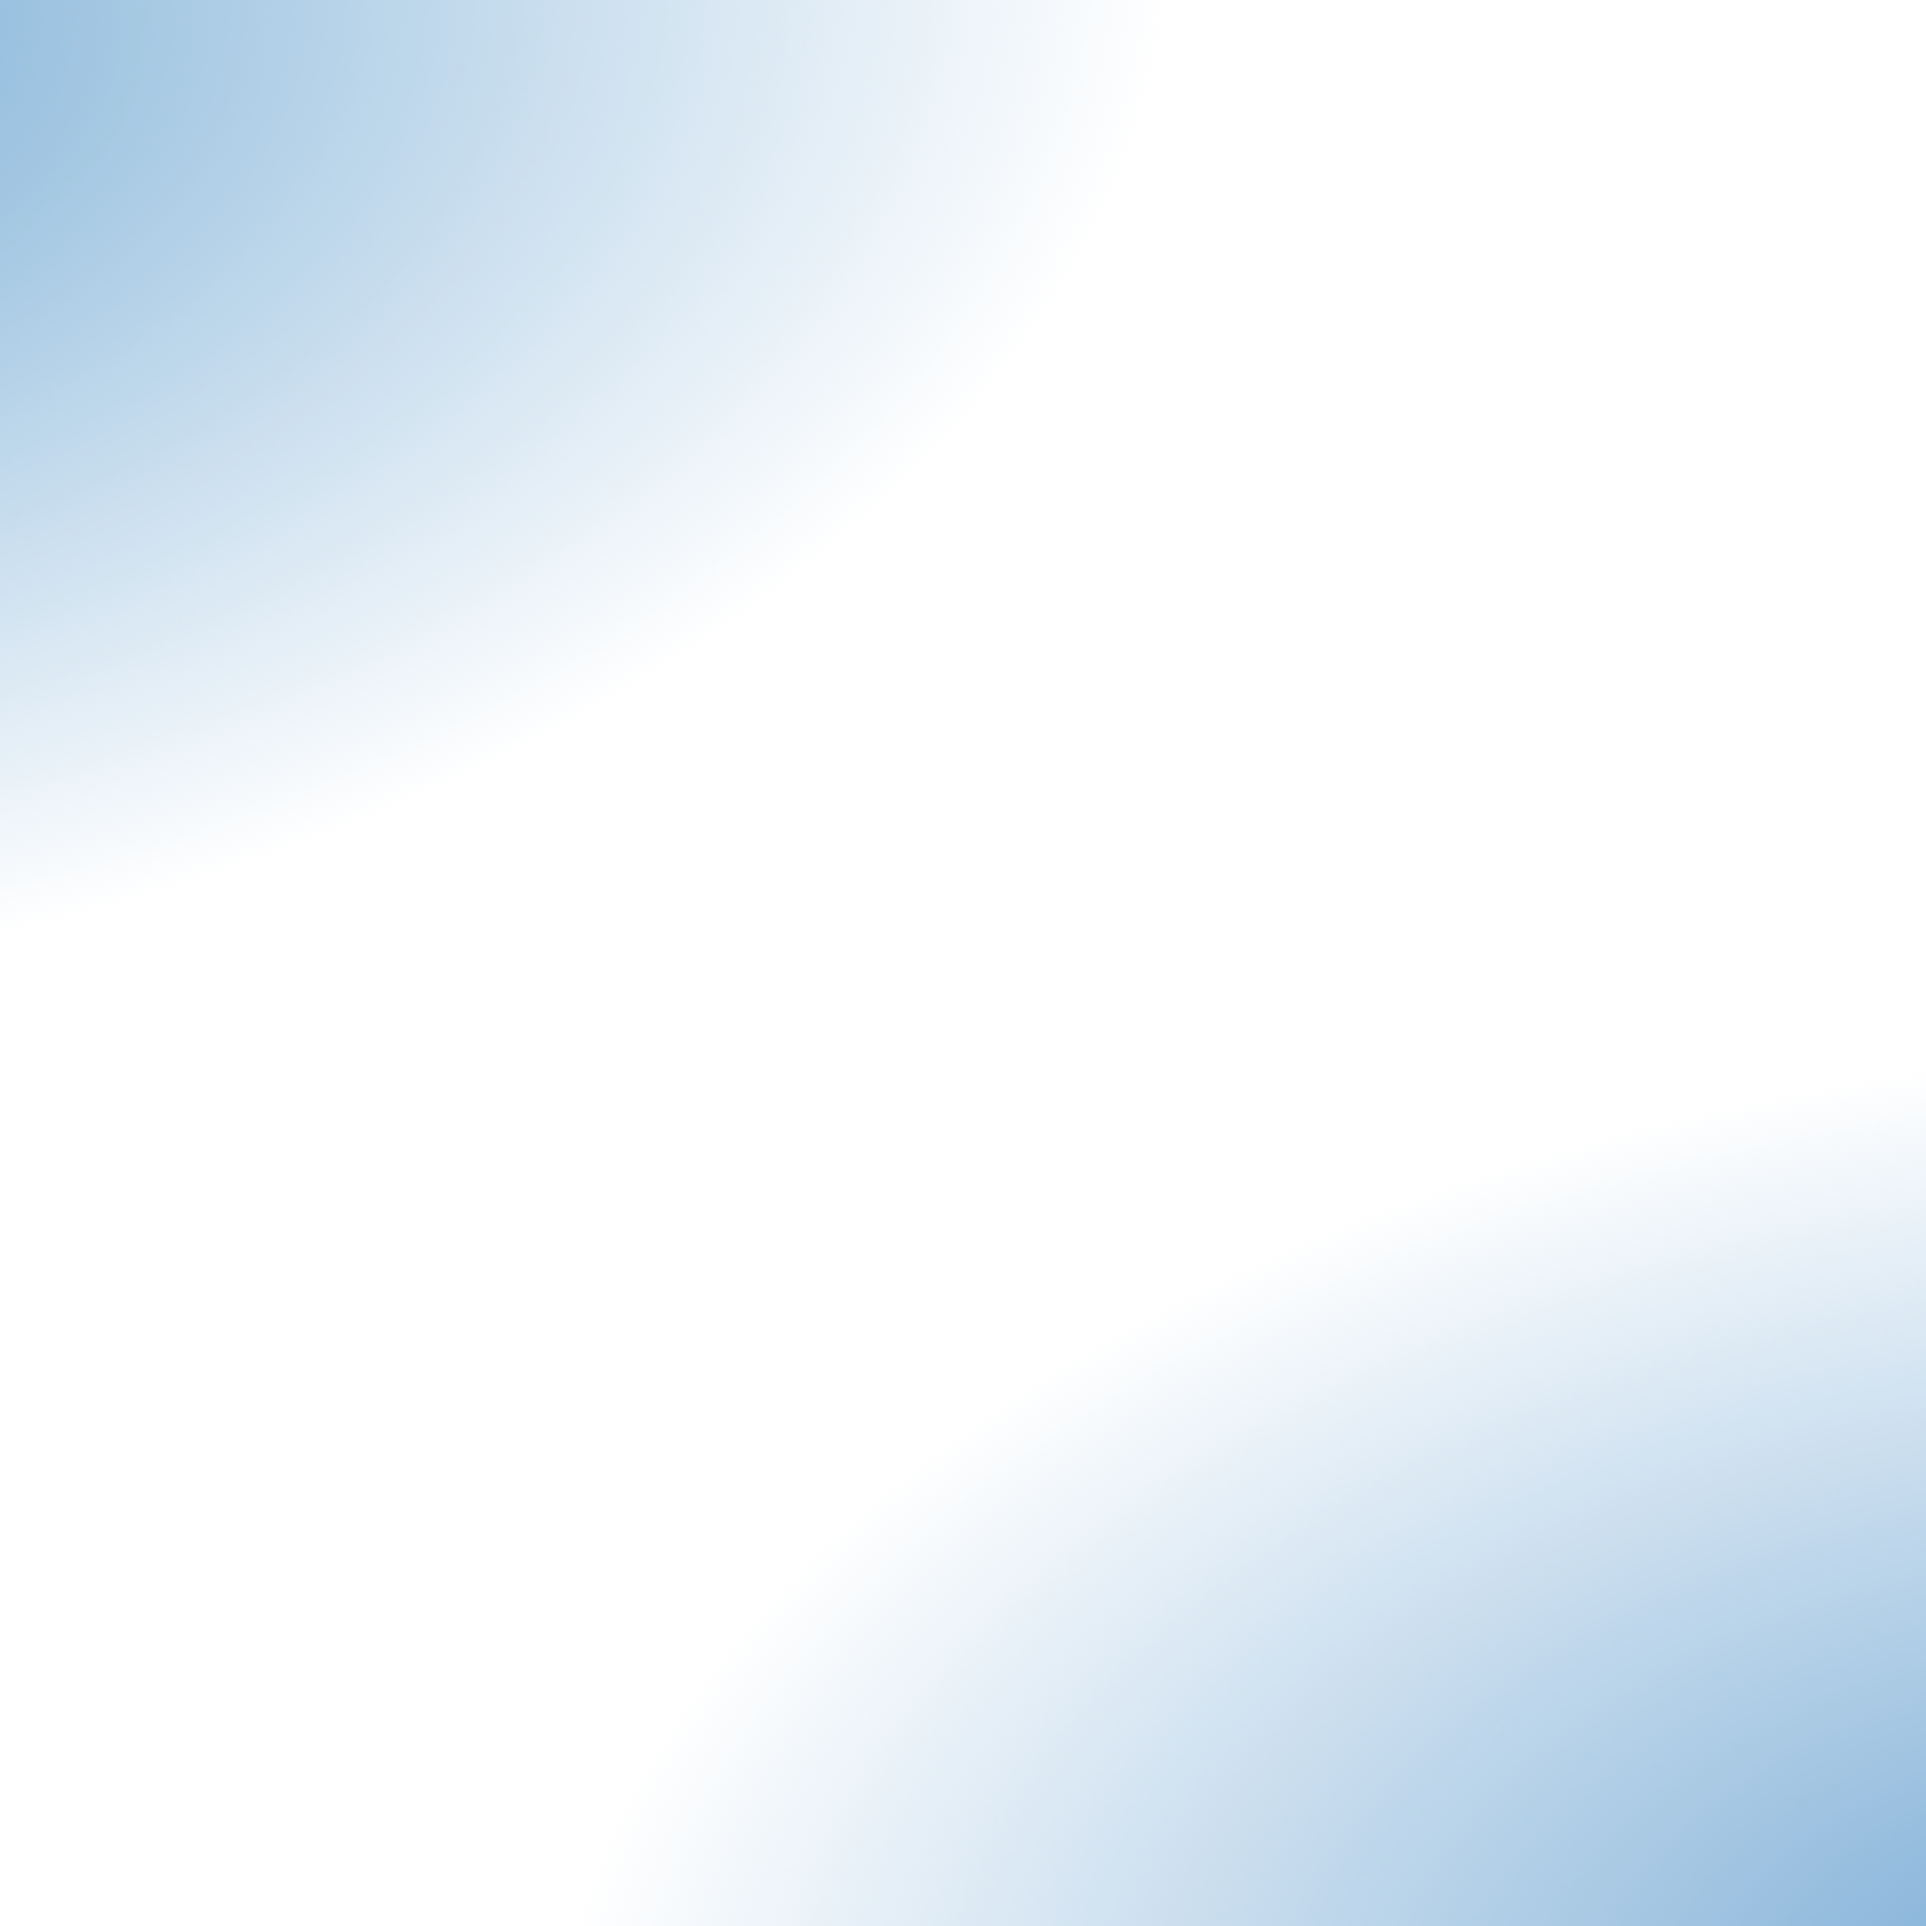
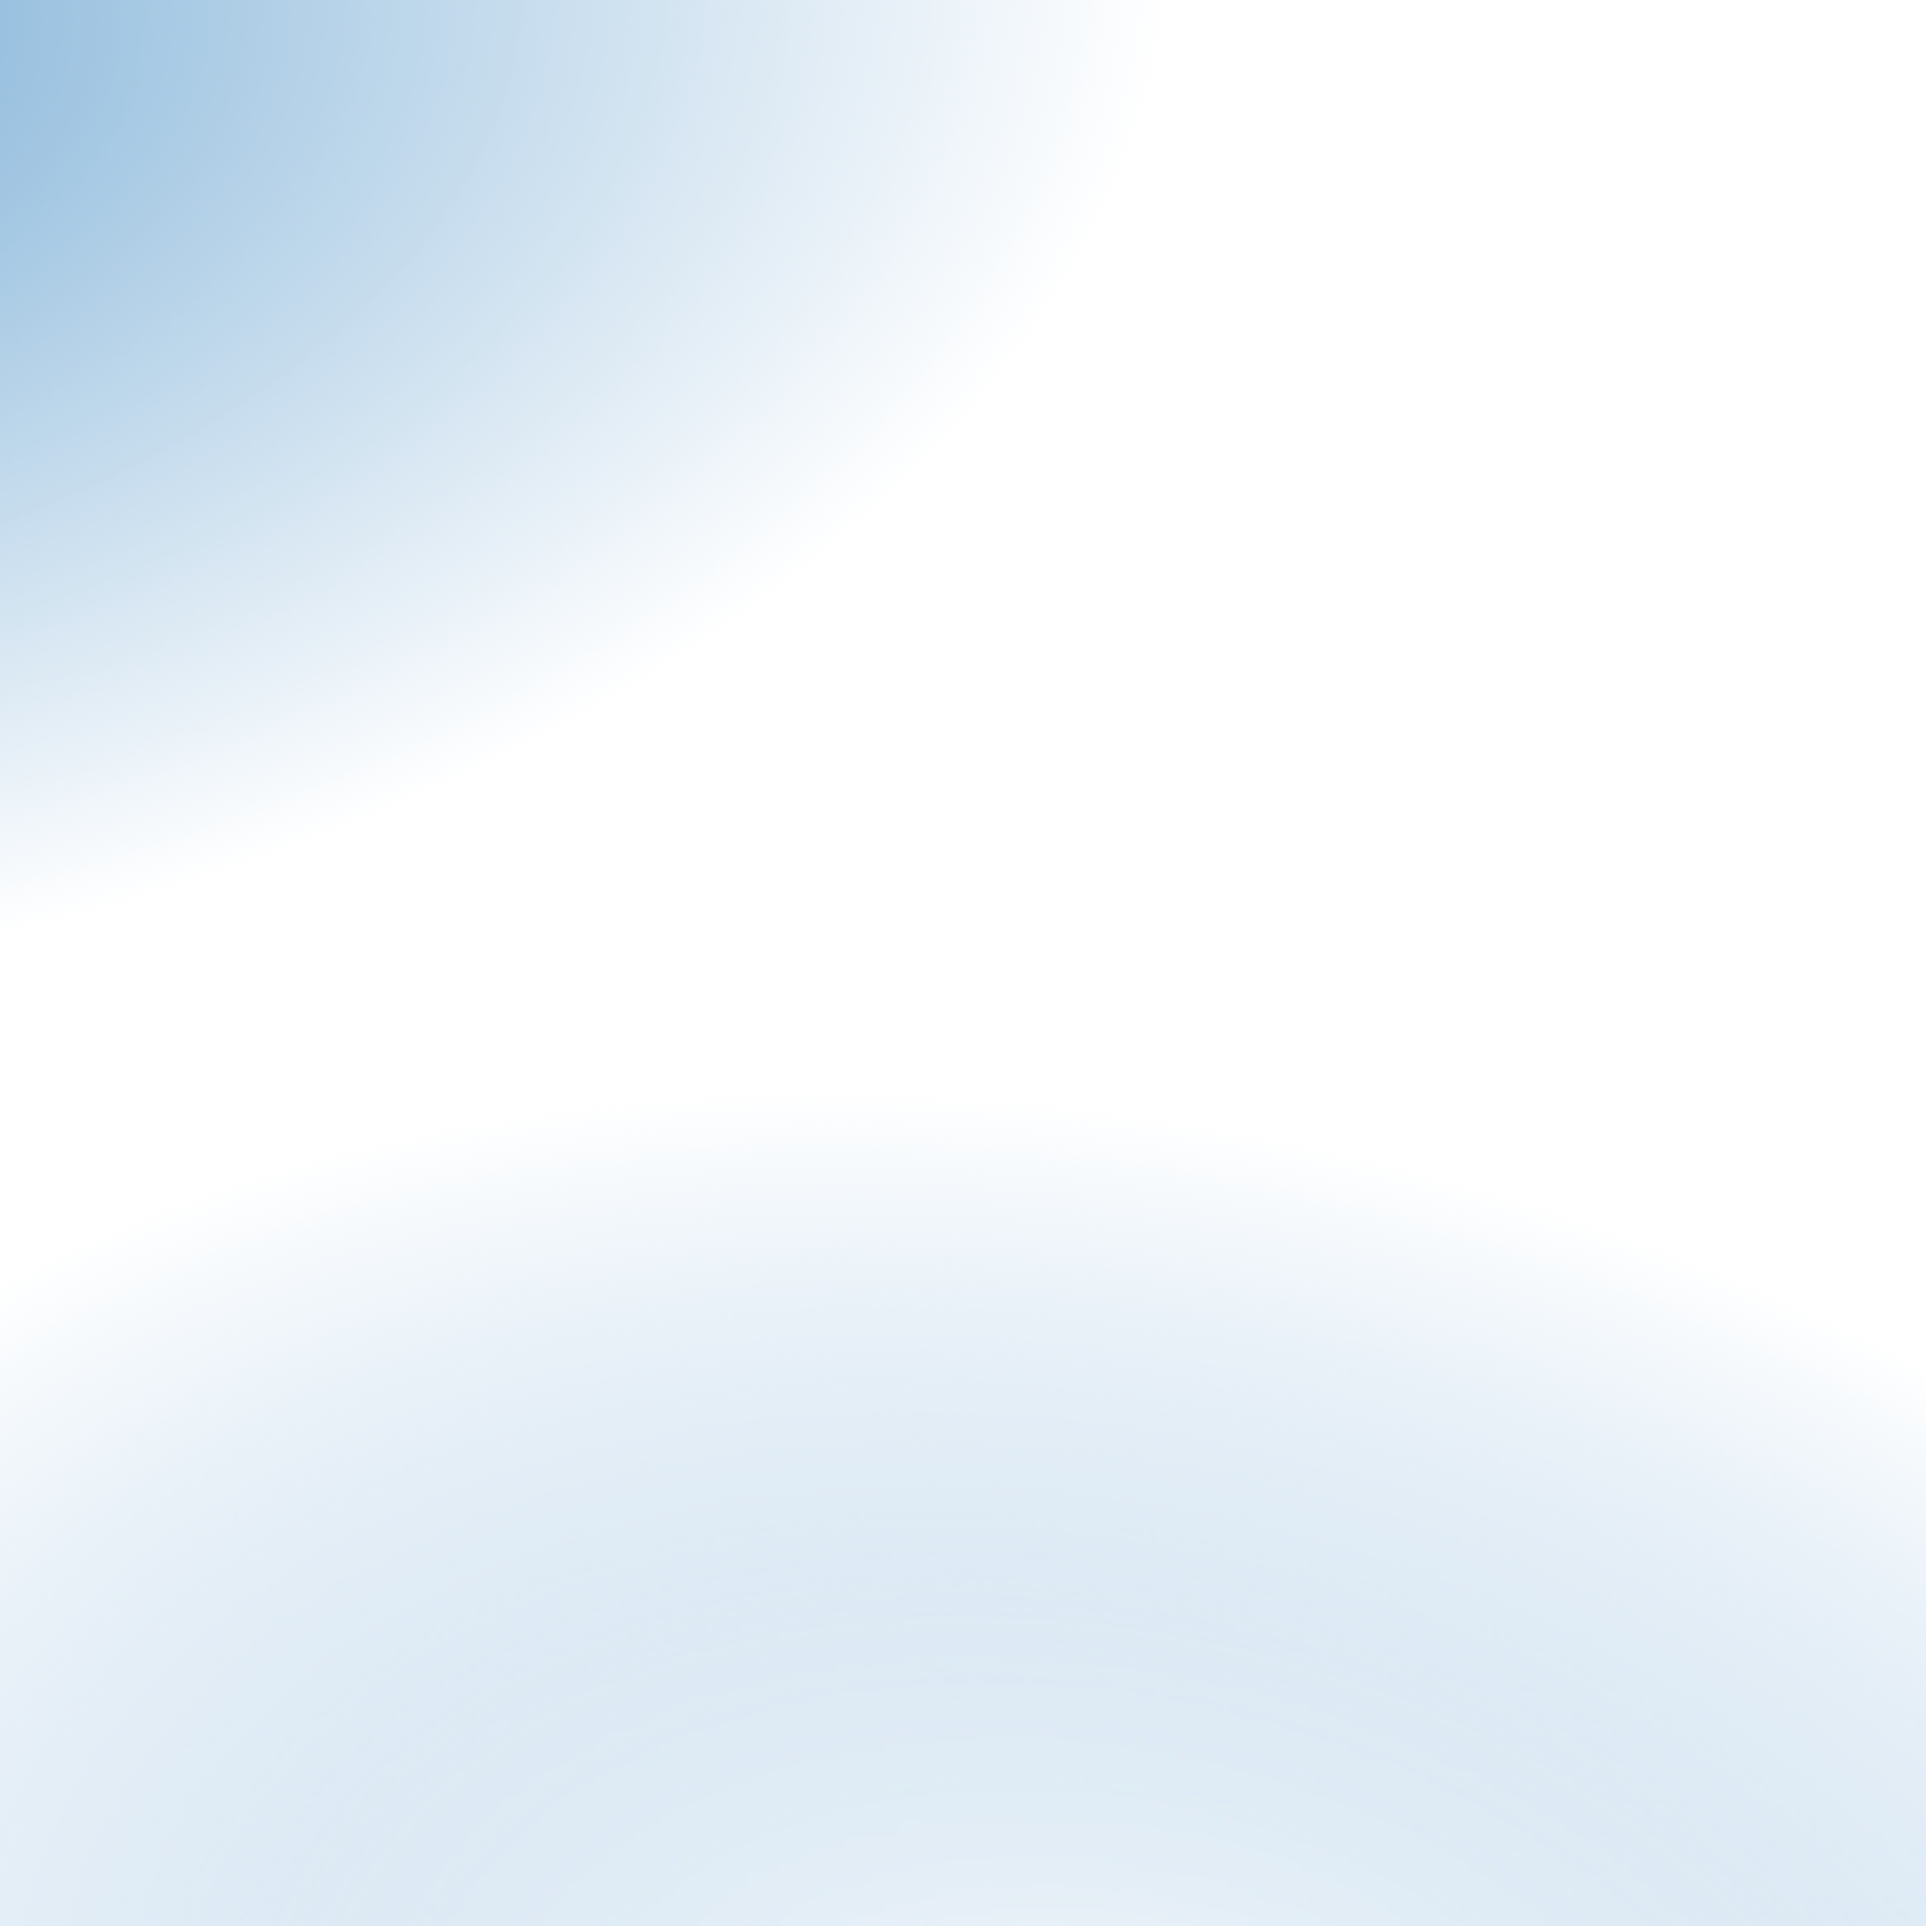
changed some background-img to the bentos

Changed region(s): [[0.0, 0.6792, 0.5557, 1.0], [0.5866, 0.6175, 1.0, 1.0]]

diff --git a/src/Theme.css b/src/Theme.css
@@ -29,7 +29,7 @@ body {
 
 header {
   background-color: var(--white);
-  box-shadow: 0 0 10px var(--transparent15dark);
+  border: 1px solid var(--stroke);
 }
 
 header > .Header_Nav {
